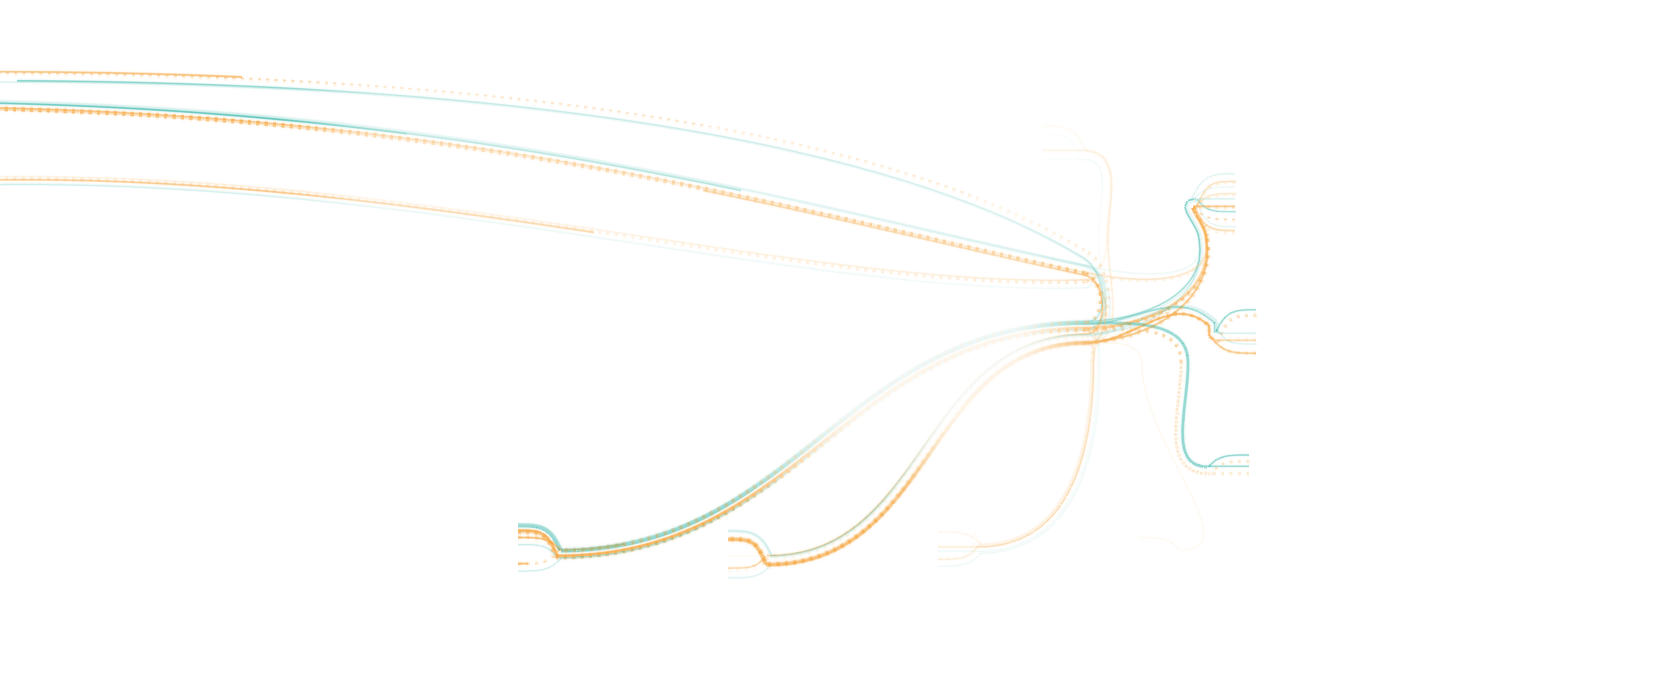
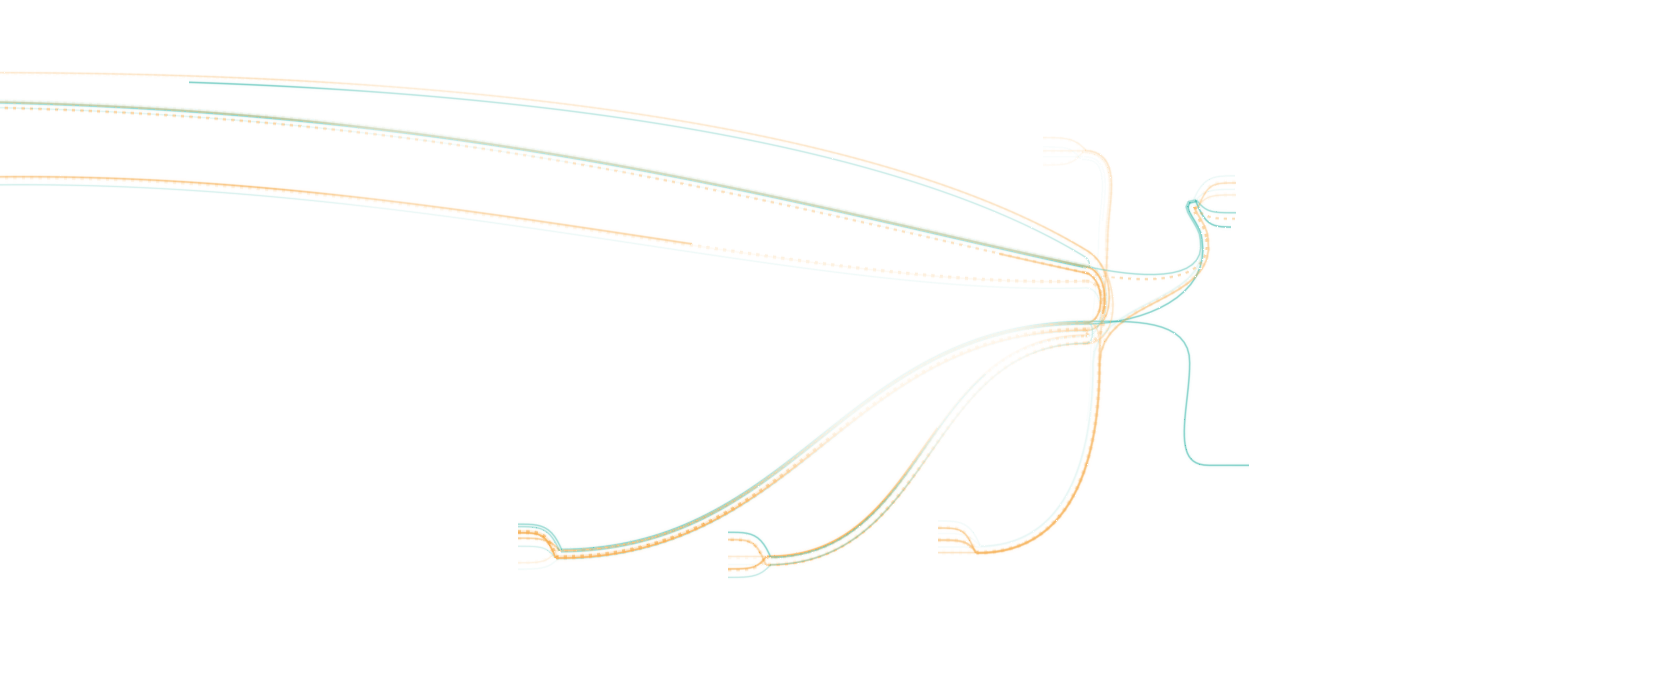
site: hero B web, a teammate's place is always on screen
The tablet band (P) never showed a teammate and laptops (M) had none for
about 18 s of every 90 (teammate-2 and teammate-4 rotated out together).
teammate-2 now holds its slot in every band; website-2 and home-1 join other
rotations. New test: in every band a teammate's place is fully shown at all
times.

diff --git a/site/experiments/hero-b/web-places.ts b/site/experiments/hero-b/web-places.ts
@@ -81,13 +81,17 @@ const REACH = {
   ],
 };
 
-/** Slots per band. Left of the hub, names sit left of the ports (lines leave toward the hub); right of it, on the right. */
+/**
+ * Slots per band. Left of the hub, names sit left of the ports (lines leave
+ * toward the hub); right of it, on the right. Every band keeps a teammate on
+ * screen at all times (teammate-2 never rotates out), next to laptop-1's `me`.
+ */
 export const SLOTS: Record<"P" | "M" | "W" | "tall", Slot[]> = {
   P: [
-    S(850, 620, "start", "office-3", "cloud-1"),
+    S(850, 620, "start", "office-3", "cloud-1", "home-1"),
     S(850, 760, "start", "laptop-1"),
-    S(1550, 620, "end", "website-2", "home-1"),
-    S(1550, 760, "end", "cloud-2", "ci-4"),
+    S(1550, 620, "end", "teammate-2"),
+    S(1550, 760, "end", "cloud-2", "website-2", "ci-4"),
   ],
   M: [
     S(1490, 165, "start", "office-3", "cloud-2"),
@@ -95,8 +99,8 @@ export const SLOTS: Record<"P" | "M" | "W" | "tall", Slot[]> = {
     S(1795, 425, "start", "home-1", "teammate-4"),
     S(1785, 615, "start", "ci-4", "office-1"),
     S(1625, 735, "end", "cloud-3", "home-3"),
-    S(1340, 728, "end", "office-2", "cloud-4"),
-    S(1040, 745, "end", "website-2", "teammate-2"),
+    S(1340, 728, "end", "office-2", "cloud-4", "website-2"),
+    S(1040, 745, "end", "teammate-2"),
     S(740, 735, "end", "laptop-1"),
     ...REACH.M,
   ],
